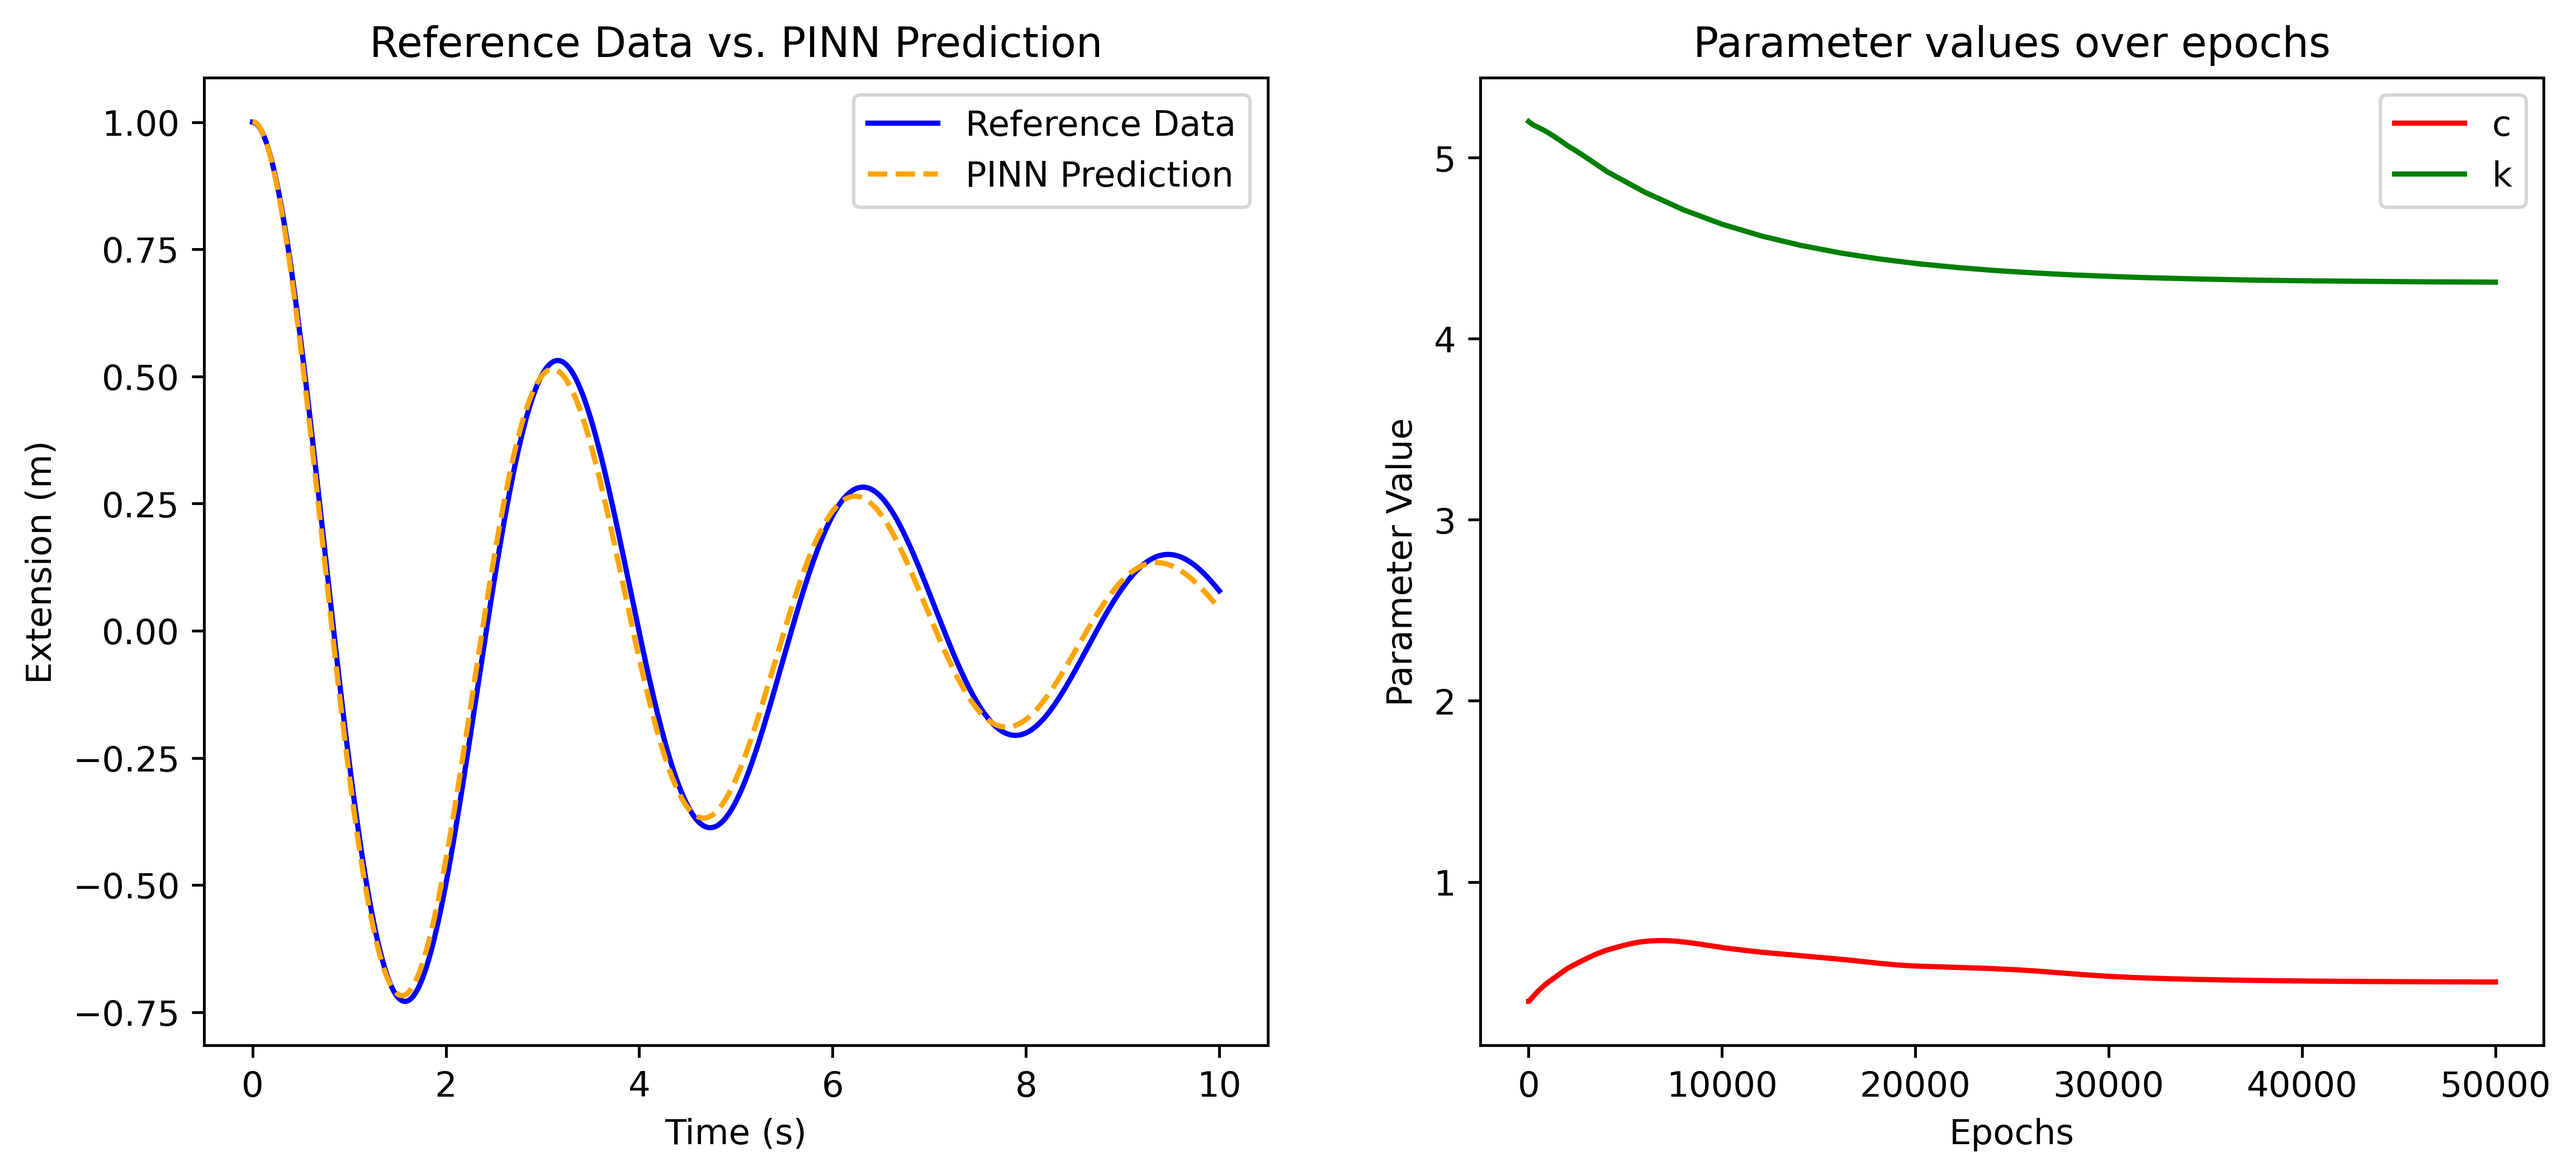
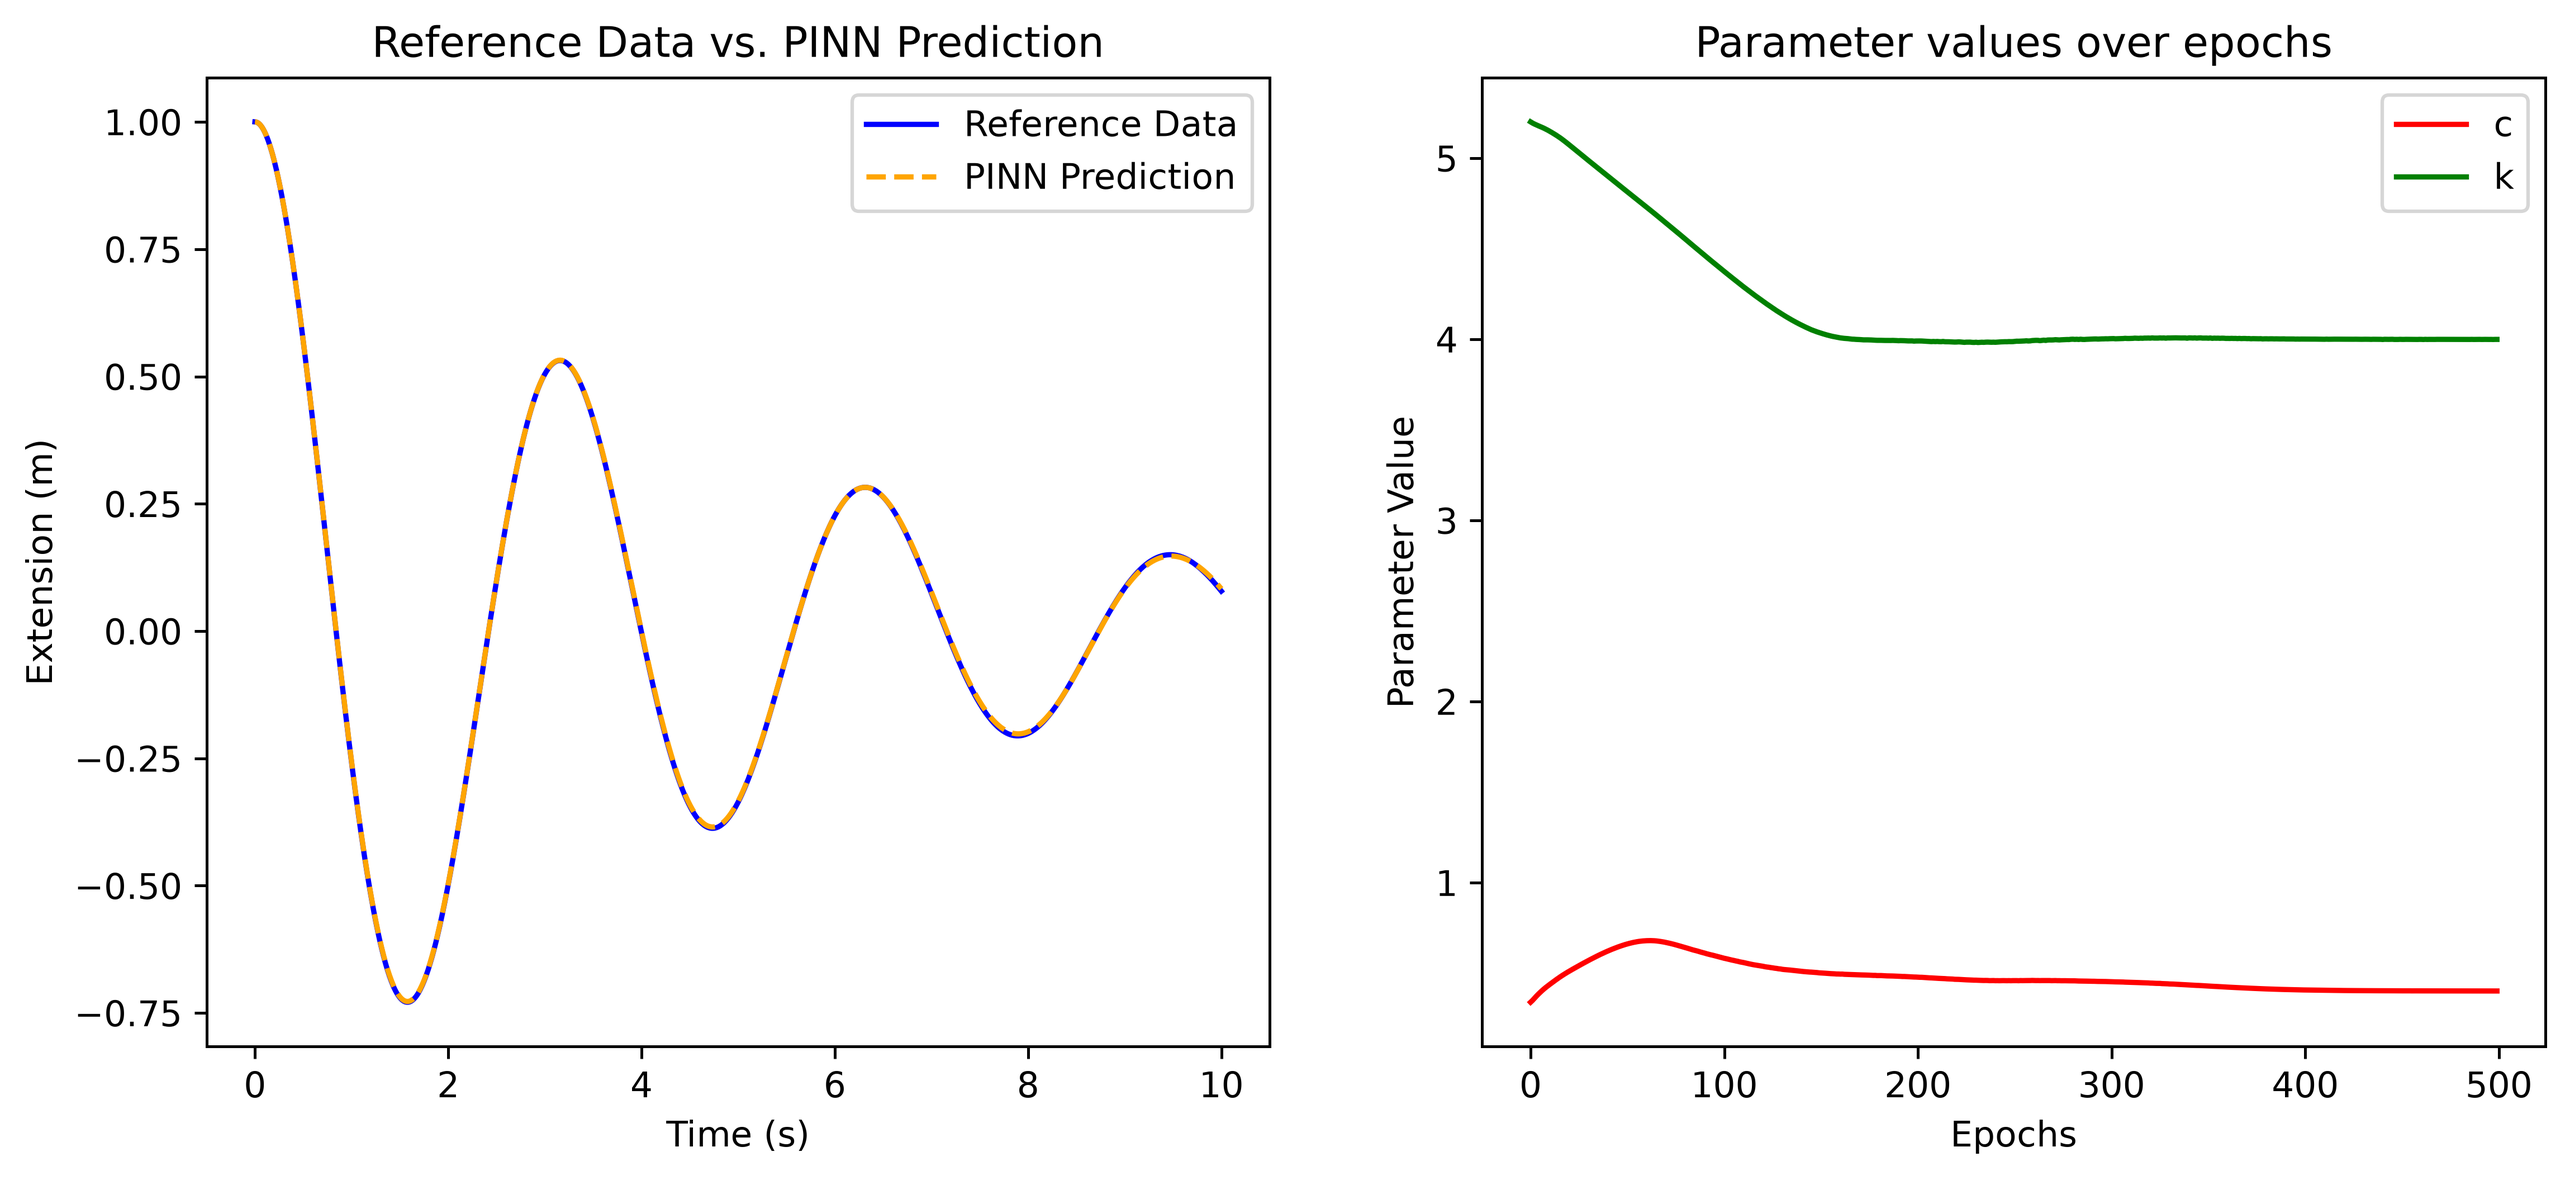
* Added batching for data loss * changed scheduler to LambdaLR instead of StepLR. * Added AGENTS.md * updated README.md with improved model results

diff --git a/pinn.py b/pinn.py
@@ -17,6 +17,7 @@ print(f"Using device: {device}")
 torch.set_default_dtype(torch.float32)
 
 
+
 class ODEData:
     def __init__(self, m, c, k, t_start, t_end, n_points, x0, noise=0.1):
         self.m = m
@@ -95,6 +96,7 @@ def train_pinn(
     lambda_physics=2.0,
     lambda_data=5.0,
     lambda_ic=6.0,
+    batch_size=None,
 ):
     time = torch.tensor(data.t, dtype=torch.float32, device=device).unsqueeze(1)
     time.requires_grad_(True)
@@ -112,21 +114,36 @@ def train_pinn(
         ]
     )
 
-    scheduler = torch.optim.lr_scheduler.StepLR(optimizer, step_size=2000, gamma=0.8)
+    # scheduler = torch.optim.lr_scheduler.StepLR(optimizer, step_size=2000, gamma=0.8)
+    scheduler = torch.optim.lr_scheduler.LambdaLR(
+        optimizer,
+        lr_lambda=[
+            lambda epoch: 0.9 ** (epoch/2000),
+            lambda epoch: 1.0,
+        ],
+    )
 
     history = {"c": [], "k": [], "loss": [], "physics": [], "data": [], "ic": []}
+
+    n_points = time.shape[0]
+    if batch_size is not None:
+        batch_size = min(batch_size, n_points)
 
     for epoch in range(epochs):
         optimizer.zero_grad()
         t0.requires_grad_(True)
-        
+
         x, x_t, x_tt = model.derivatives(time)
         x0_pred, x_t0, _ = model.derivatives(t0)
 
         physics_residual = model.m * x_tt + model.c_train * x_t + model.k_train * x
         physics_loss = torch.mean(physics_residual ** 2)
 
-        data_loss = torch.mean((x - reference) ** 2)
+        if batch_size is None:
+            data_loss = torch.mean((x - reference) ** 2)
+        else:
+            idx = torch.randperm(n_points, device=device)[:batch_size]
+            data_loss = torch.mean((x[idx] - reference[idx]) ** 2)
         ic_loss = (x0_pred - 1) ** 2 + (x_t0[0] - v0) ** 2
         loss = (
             lambda_physics * physics_loss
@@ -154,7 +171,9 @@ def train_pinn(
                 f"c: {model.c_train.item():.4f}, k: {model.k_train.item():.4f}"
             )
 
-    return model, history, time, x.detach()
+    with torch.no_grad():
+        prediction = model(time)
+    return model, history, time, prediction.detach()
 
 
 def plot_results(data, prediction, history, filename="results.png"):
@@ -196,7 +215,7 @@ def main(noise, filename):
 
     model = PINN(neurons=128, m=data.m, c_init=data.c * 0.85, k_init=data.k * 1.3).to(device)
 
-    model, history, _, prediction = train_pinn(model, data, epochs=50000)
+    model, history, _, prediction = train_pinn(model, data, epochs=50000, batch_size=256)
 
     # Save the model checkpoint including the optimized parameters
     torch.save({

diff --git a/AGENTS.md b/AGENTS.md
@@ -1,0 +1,63 @@
+# AGENTS.md
+
+## This is a learning project
+
+The author is a physicist using this repo to learn PINNs and PyTorch. The goal is his
+understanding, not finished code. Work like a tutor and reviewer, not a ghostwriter:
+
+- **Don't write the solution unasked.** When something is broken or could be better,
+  explain what and why, point to the line, and give a hint or the relevant concept.
+  Let him implement it. Write code only when explicitly asked ("implement", "fix it").
+- **When you do write code, keep the diff small** and explain each change — the
+  physical or numerical reasoning, not just what changed.
+- **Ask before larger changes** (restructuring, new files, new dependencies, refactors).
+- **Be direct.** Name real problems plainly (wrong physics, bad numerics, misleading
+  results) instead of softening them. He has a physics background — skip basics of ODEs,
+  calculus, and linear algebra; explain PyTorch/ML specifics where relevant.
+- **Prefer questions that lead to the insight** over handing it over, e.g. "What happens
+  to the c/k learning rate after 20k epochs?" rather than "Your scheduler is the bug."
+- Don't fix things he didn't ask about. Mention them briefly at the end instead.
+
+## Scientific correctness
+
+- Distinguish between mathematical correctness, numerical
+  stability, and successful optimization. A decreasing loss
+  does not prove that the PINN learned the correct solution.
+- When changing physical equations or loss terms, explain
+  the mathematical formulation before implementation.
+- Prefer analytical solutions, limiting cases, and physical
+  invariants as validation wherever applicable.
+- Never claim physical correctness based on a successful
+  training run alone.
+
+## Verifying changes
+
+No test suite. Never start a full run (50k epochs) just to check something — it takes
+long on CPU. Use this smoke test (~10 s on CPU):
+
+```bash
+python -c "
+import pinn
+d = pinn.ODEData(m=1.0, c=0.4, k=4.0, t_start=0, t_end=10, n_points=200, x0=[1.0, 0.0], noise=0)
+m = pinn.PINN(m=1.0).to(pinn.device)
+_, h, _, _ = pinn.train_pinn(m, d, epochs=500)
+assert h['loss'][-1] < h['loss'][0], 'loss did not decrease'
+print('smoke test ok')
+"
+```
+
+Importing `pinn` creates `model_checkpoints/` and prints the device. That's expected.
+
+## Rules
+
+- Hyperparameters (epochs, LRs, λ-weights, scheduler, width, initial guesses) are his
+  experimental choices. Don't change them unless asked; if you do, report old → new.
+- Numbers in the README and `results.png` only change after a real full run. Never
+  estimate or invent results.
+- Keep the seeds in `main()` and `float32`.
+- No new dependencies without asking.
+- Never commit the venv (`PINN/`), `model_checkpoints/`, `*.pth`, or `todo-liste.txt`
+  (private notes). Don't read `todo-liste.txt` unless he points you to it.
+- Code and docs in English. Existing German comments can stay.
+- Communicate in German by default. Use English for code,
+  technical terminology and documentation where appropriate.

diff --git a/README.md b/README.md
@@ -18,8 +18,8 @@ The network recovers the parameters from initial guesses $c_{\mathrm{init}}= c \
 
 | Parameter | True value | Identified |
 |-----------|-----------|------------|
-| c         | 0.4       | 0.4498      |
-| k         | 4.0       | 4.3214      |
+| c         | 0.4       | 0.4020      |
+| k         | 4.0       | 3.9988      |
 
 ![results](results.png)
 
